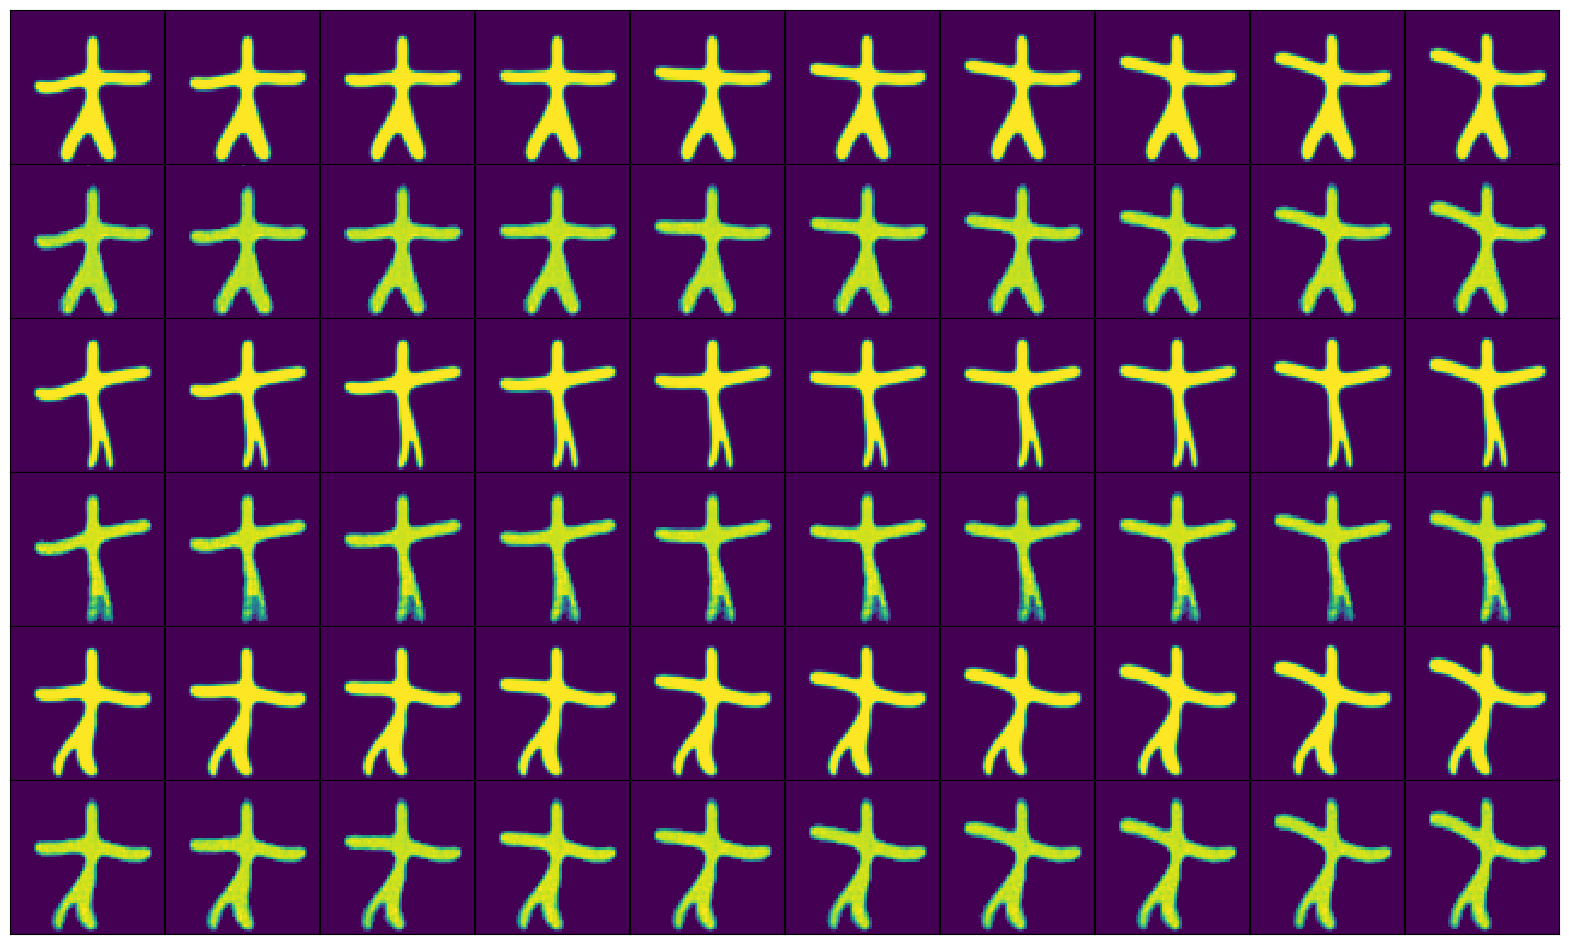
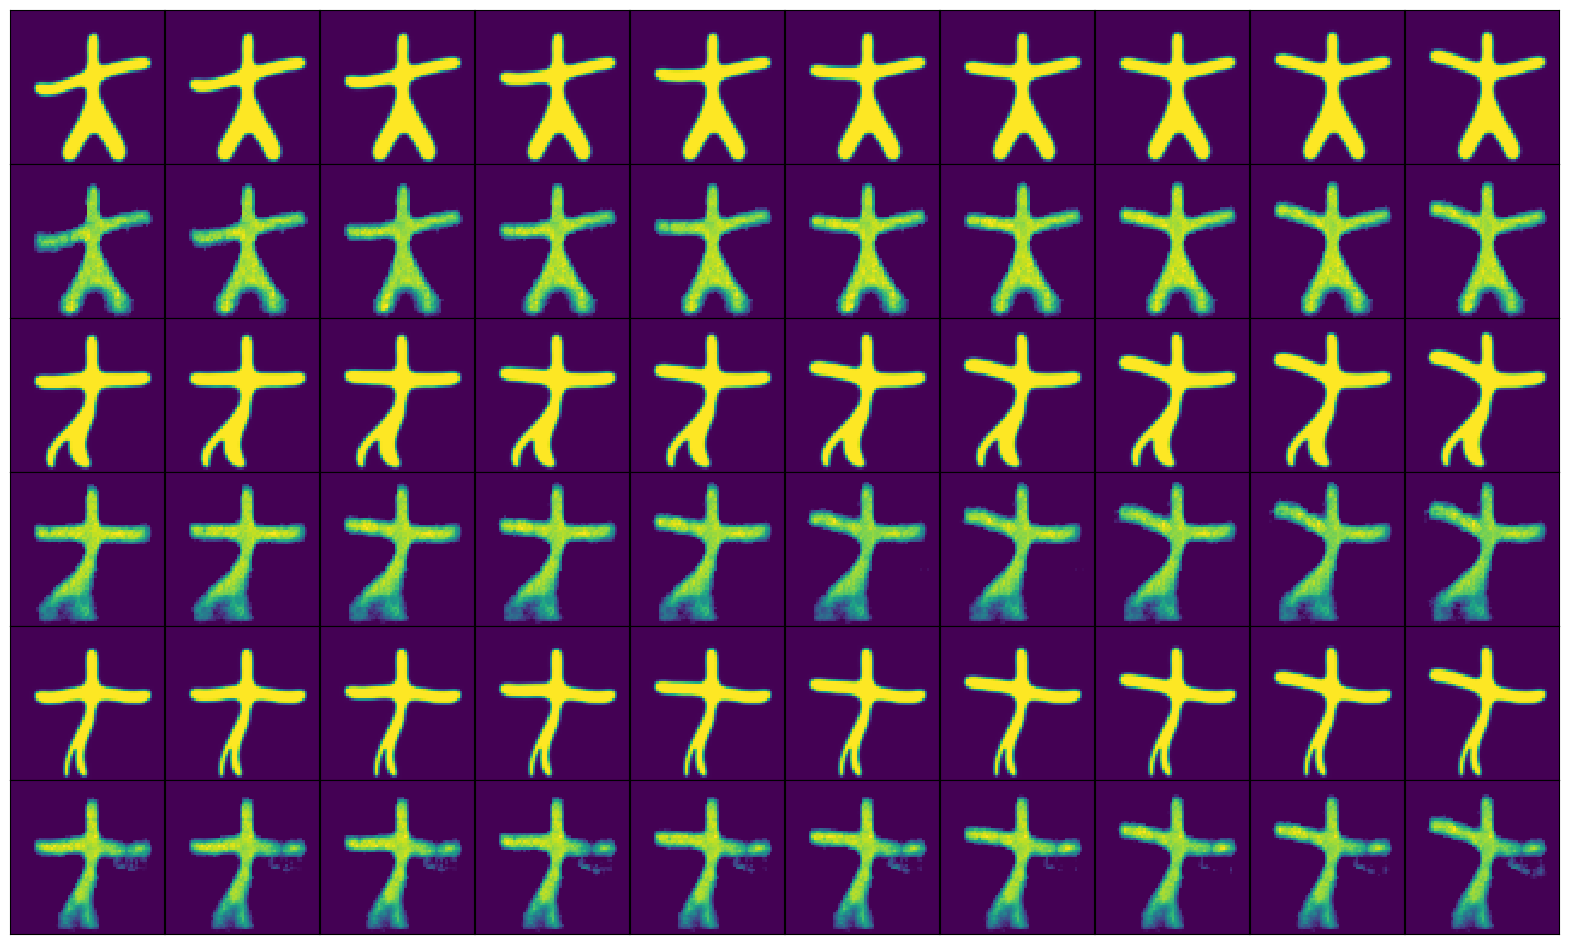
2023-4-10

diff --git a/model.py b/model.py
@@ -2286,7 +2286,7 @@ class Riem_VAE(nn.Module):
         self.device = torch.device("cuda:0" if torch.cuda.is_available() else "cpu")
         self.fold = None
         self.beta = 2.
-        self.gamma = 3.
+        self.gamma = 100.
 
         self.conv1 = nn.Conv2d(1, 16, 3, stride=2, padding=1)  # 16 x 32 x 32
         self.conv2 = nn.Conv2d(16, 32, 3, stride=2, padding=1)  # 32 x 16 x 16
